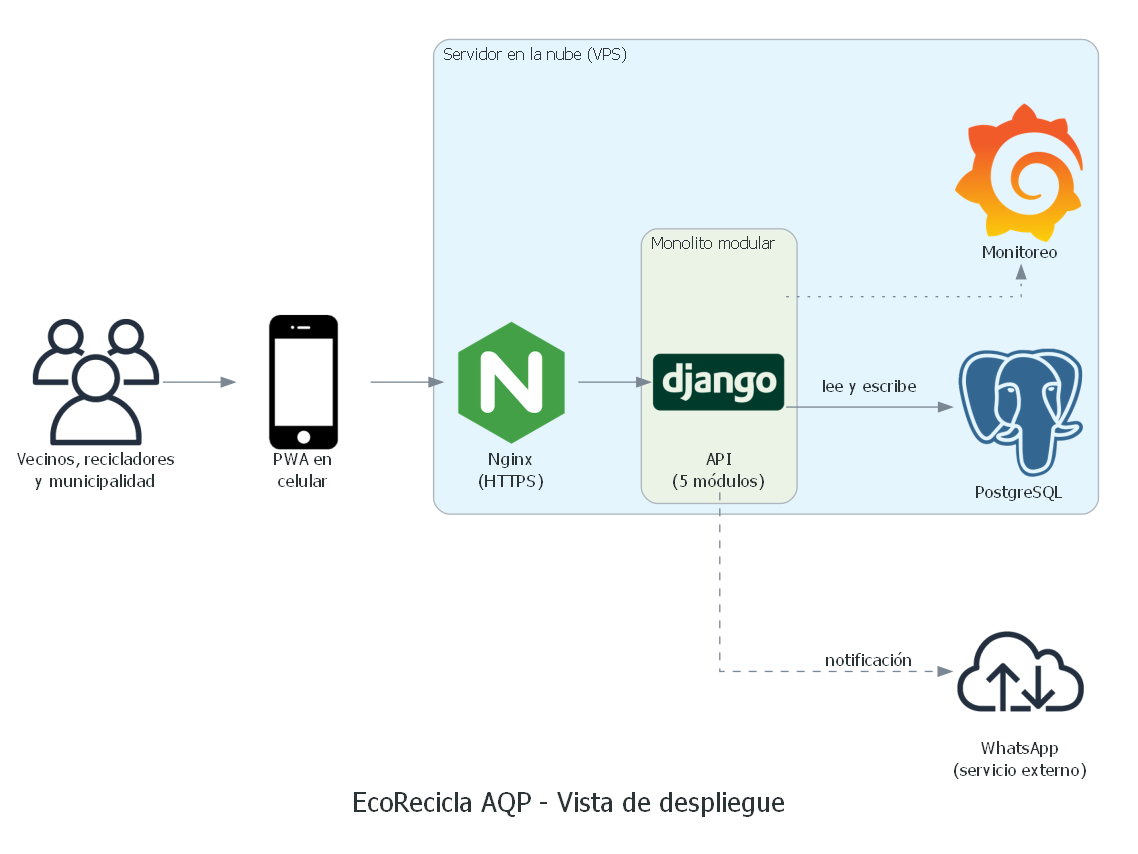
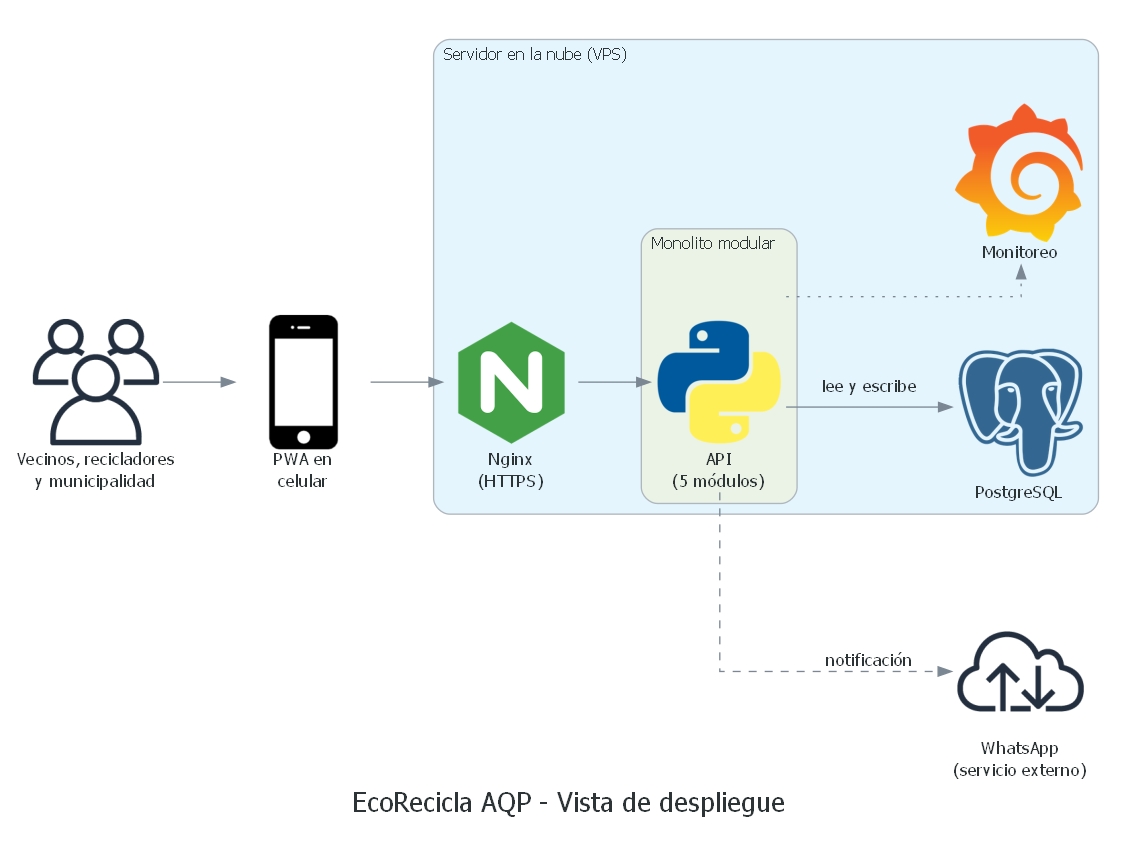
E6: despliegue con Python y bitacora de IA

Changed region(s): [[0.5536, 0.3653, 0.7074, 0.5176]]

diff --git a/docs/architecture/diagramas/despliegue.py b/docs/architecture/diagramas/despliegue.py
@@ -1,7 +1,7 @@
 from diagrams import Diagram, Cluster, Edge
 from diagrams.onprem.client import Users
 from diagrams.onprem.network import Nginx
-from diagrams.programming.framework import Django
+from diagrams.programming.language import Python
 from diagrams.onprem.database import PostgreSQL
 from diagrams.onprem.monitoring import Grafana
 from diagrams.onprem.network import Internet
@@ -16,7 +16,7 @@ with Diagram("EcoRecicla AQP - Vista de despliegue", filename="img/despliegue",
     with Cluster("Servidor en la nube (VPS)"):
         proxy = Nginx("Nginx\n(HTTPS)")
         with Cluster("Monolito modular"):
-            app = Django("API\n(5 módulos)")
+            app = Python("API\n(5 módulos)")
         db = PostgreSQL("PostgreSQL")
         mon = Grafana("Monitoreo")
     usuarios >> movil >> proxy >> app
